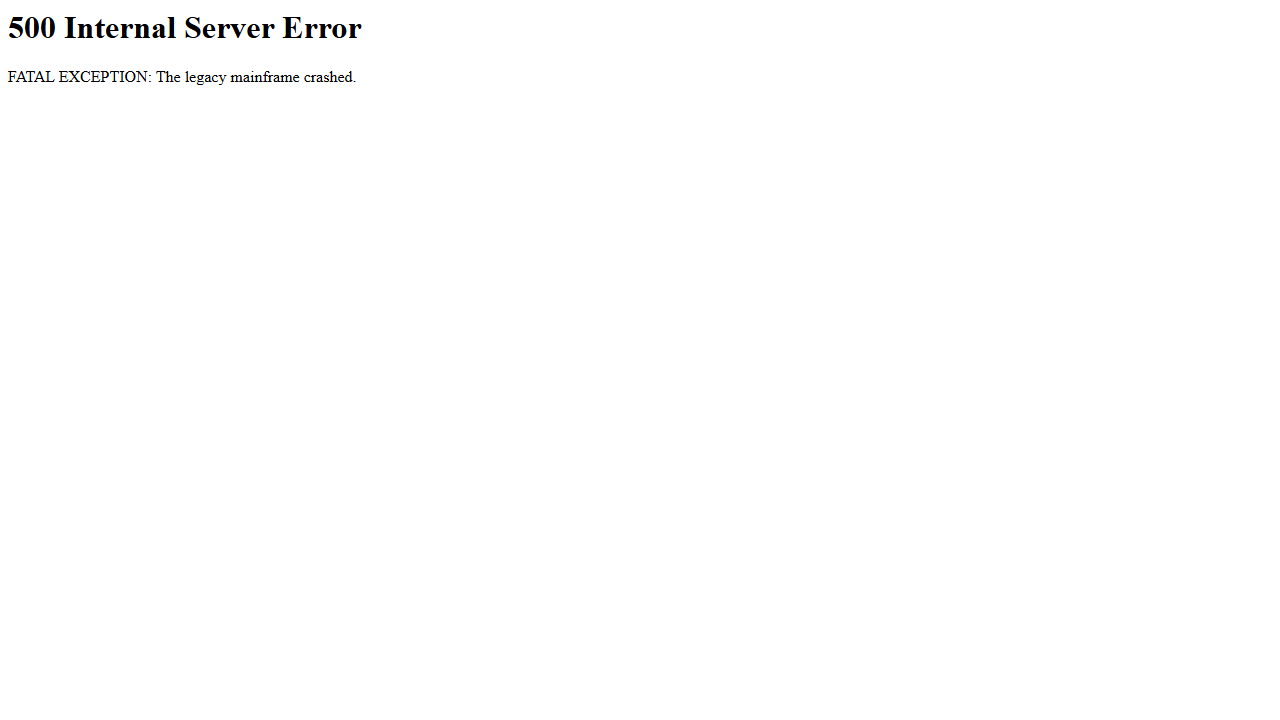
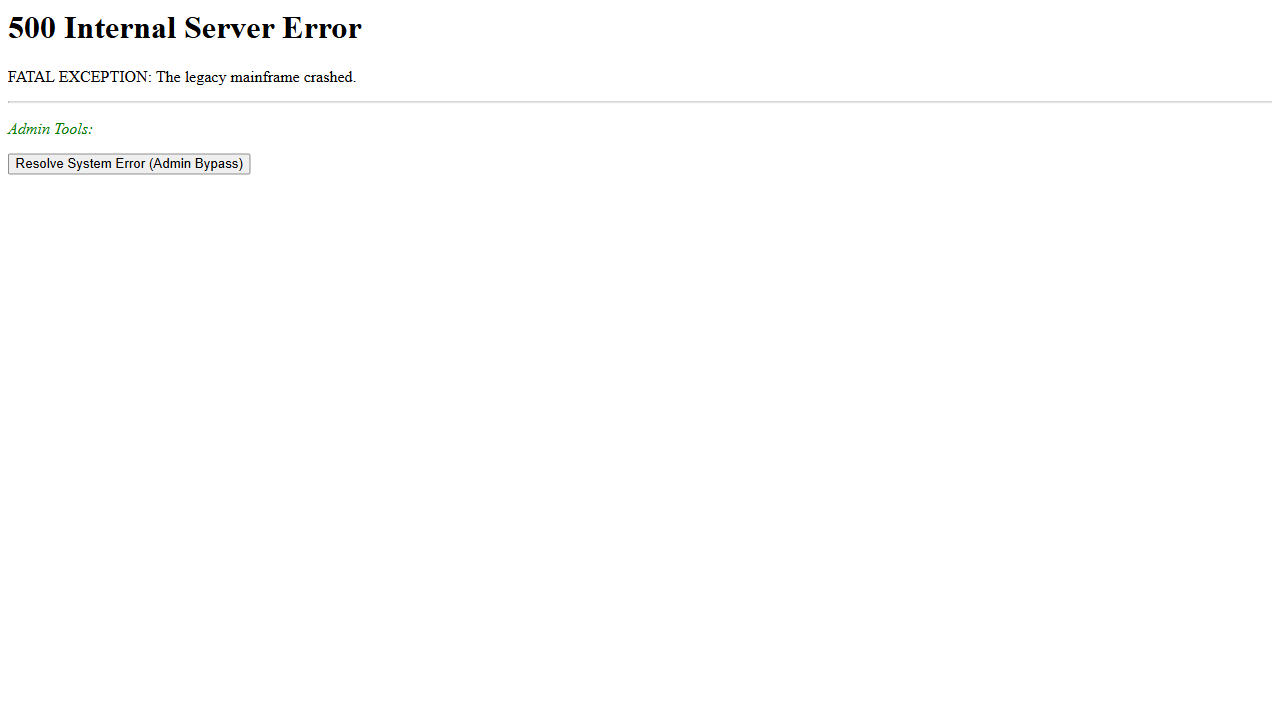
Fix executor loop to retry failed steps after human intervention and add Admin bypass to mock app

Changed region(s): [[0.0, 0.1528, 0.2188, 0.2444]]

diff --git a/src/replay/executor.py b/src/replay/executor.py
@@ -29,7 +29,9 @@ class ReplayEngine:
         self.controller.goto(start_url)
         extracted_data = {}
         
-        for idx, step in enumerate(self.artifact.steps):
+        idx = 0
+        while idx < len(self.artifact.steps):
+            step = self.artifact.steps[idx]
             print(f"--- Executing Step {idx+1}: {step.action} ---")
             
             loc_strat = step.locator.strategy if step.locator else None
@@ -50,6 +52,9 @@ class ReplayEngine:
                     
                 # Small sleep to let the page react
                 time.sleep(0.5)
+                
+                # Advance to next step if successful
+                idx += 1
                 
             except Exception as e:
                 print(f"\n[ERROR] Step {idx+1} failed: {e}")
@@ -90,12 +95,12 @@ class ReplayEngine:
                                 }
                             else:
                                 # The human fixed it and pressed Enter! We want to resume.
-                                print("[Replay Engine] Operator resolved the issue. Resuming execution...")
+                                print("[Replay Engine] Operator resolved the issue. Retrying the failed step...")
                                 handled = True
                                 break # break the outcome checking loop
                 
                 if handled:
-                    continue # continue to the next step in the ReplayEngine loop
+                    continue # continue loops back to the while condition without incrementing idx, so it retries!
                 
                 # 2. Nothing matched → Truly unknown state → Classify + Write new version
                 print(f"\n[Replay Engine] Checking expected_outcomes... {len(self.artifact.expected_outcomes)} outcomes registered. No match.")

diff --git a/mock_app/app.py b/mock_app/app.py
@@ -8,7 +8,8 @@ app.secret_key = 'super_secret_key' # Required for flash messages
 MEMBERS = {
     "12345": {"name": "Alice Smith", "savings": "$12,450.00", "checking": "$1,200.50"},
     "54321": {"name": "Bob Jones", "savings": "$5,000.00", "checking": "$450.25"},
-    "777": {"name": "Charlie Handoff", "savings": "$1,000.00", "checking": "$10.00"}
+    "777": {"name": "Charlie Handoff", "savings": "$1,000.00", "checking": "$10.00"},
+    "500": {"name": "System Crash Tester", "savings": "$0.00", "checking": "$0.00"}
 }
 
 @app.route('/')
@@ -21,7 +22,14 @@ def search_action():
     
     # Hard Stop Simulation: 500 crashes the legacy system completely
     if member_id == "500":
-        return "<h1>500 Internal Server Error</h1><p>FATAL EXCEPTION: The legacy mainframe crashed.</p>", 500
+        error_html = """
+        <h1>500 Internal Server Error</h1>
+        <p>FATAL EXCEPTION: The legacy mainframe crashed.</p>
+        <hr>
+        <p style='color: green;'><i>Admin Tools:</i></p>
+        <a href='/dashboard/500'><button>Resolve System Error (Admin Bypass)</button></a>
+        """
+        return error_html, 500
         
     # Deterministic Business Error: 999 always fails (graceful)
     if member_id == "999" or member_id not in MEMBERS:
